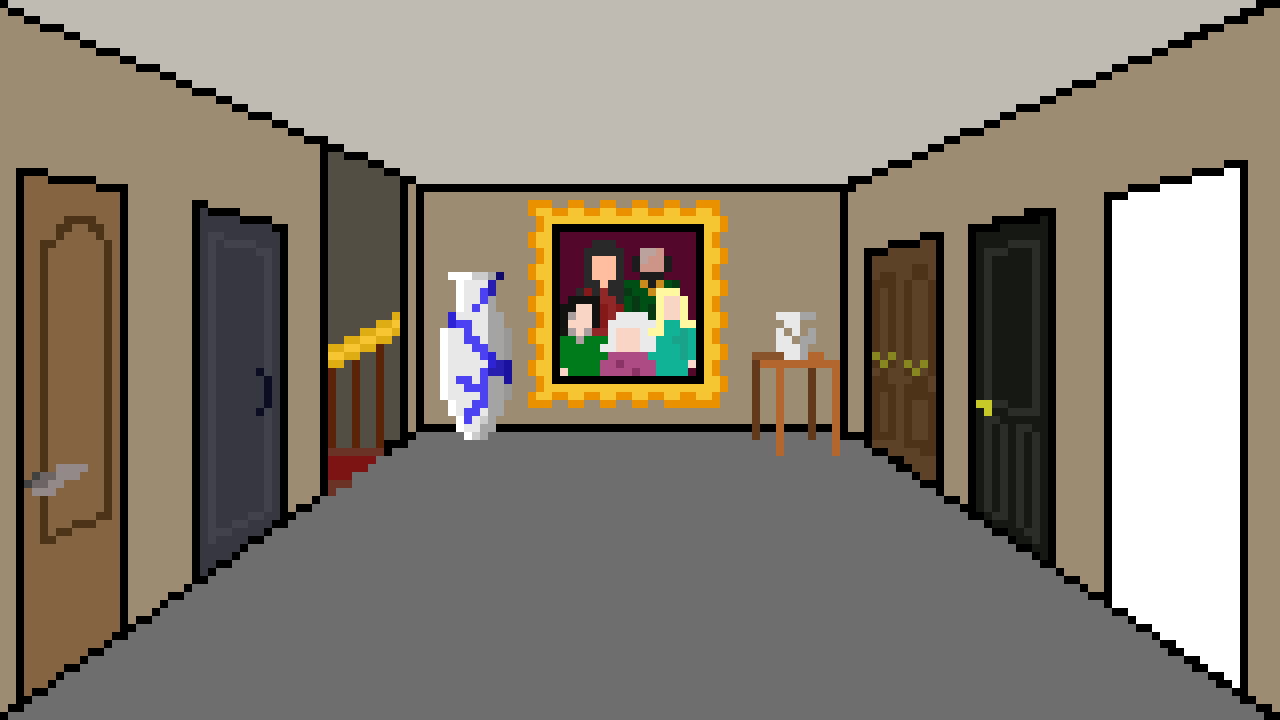
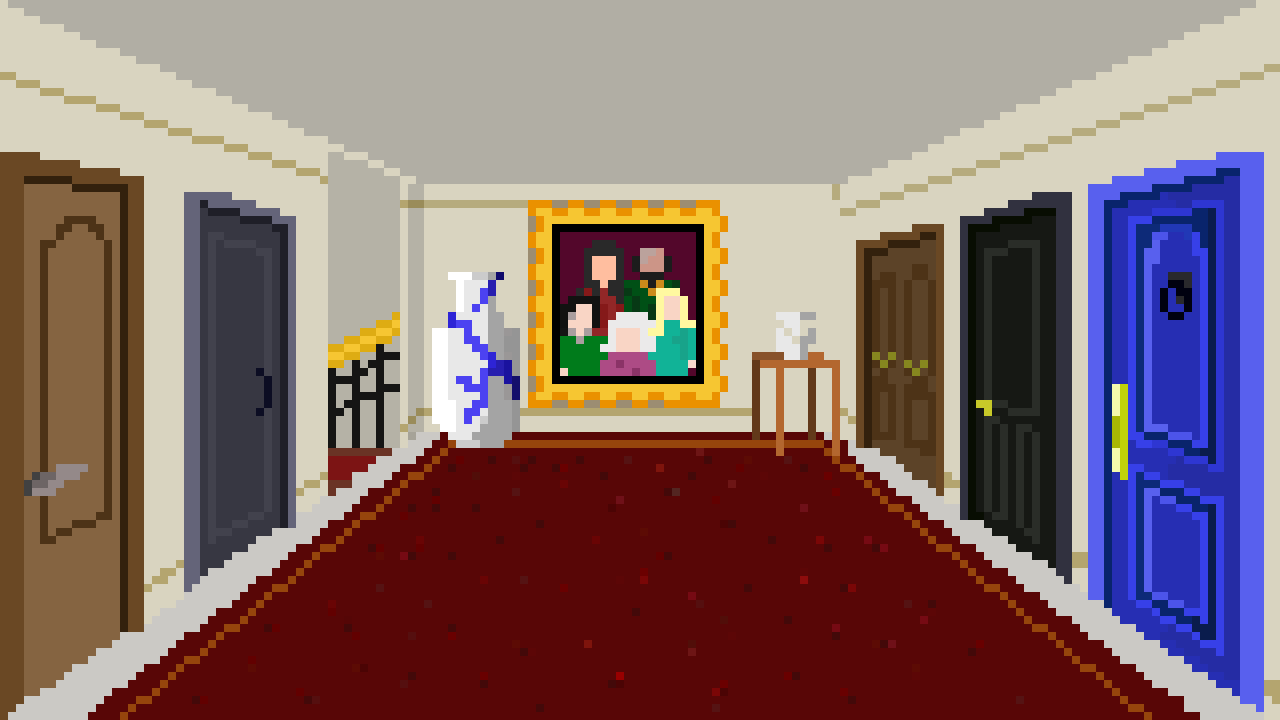
Metiendo assets

diff --git a/Lorem Ipsum/DialogSelectors.cpp b/Lorem Ipsum/DialogSelectors.cpp
@@ -467,8 +467,9 @@ std::map<Resources::ActorID, std::function<void(DialogComponent*)>> DialogSelect
 				hider->getComponent<Interactable>(ecs::Interactable)->setCallback([func, sm](Entity* e, Entity* e2)
 					{
 						func(e, e2);
-						/*sm->getScene(Resources::SceneID::DespachoPolo)->hider->getComponent<Interactable>(ecs::Interactable)->setEnabled(true);*/
 						sm->getDoor(Resources::pDespachoSotano)->getEntity()->getComponent<Interactable>(ecs::Interactable)->setEnabled(true);
+						sm->getBackgroundSprite()->setTexture(Resources::TextureID::DespachoCapoNoCarpet);
+
 					});
 				d->getData()[7] = 1;
 			}

diff --git a/Lorem Ipsum/Resources.cpp b/Lorem Ipsum/Resources.cpp
@@ -127,6 +127,7 @@ vector<Resources::ImageInfo> Resources::images_{
 			{MainMenuSpriteSheet, "../assets/images/backgrounds/MenuBGAnim.png"},
 			{DespachoCapo, "../assets/images/backgrounds//DespachoCapo.png"},
 			{DespachoCapoOverlay, "../assets/images/backgrounds/DespachoCapo.png"},
+			{DespachoCapoNoCarpet, "../assets/images/backgrounds/DespachoCapoSinAlfombra.png"},
 			{AfurPortrait, "../assets/images/familiaPolo/PortraitAfur.png"},
 			{Afur, "../assets/images/familiaPolo/Afur.png"},
 			{AfurFantasma, "../assets/images/familiaPolo/AfurFantasma.png" },

diff --git a/Lorem Ipsum/Resources.h b/Lorem Ipsum/Resources.h
@@ -92,6 +92,7 @@ public:
 		MaridoCapaSpriteSheet,
 		DespachoCapo,
 		DespachoCapoOverlay,
+		DespachoCapoNoCarpet,
 		AfurPortrait,
 		Afur,
 		AfurFantasma,
